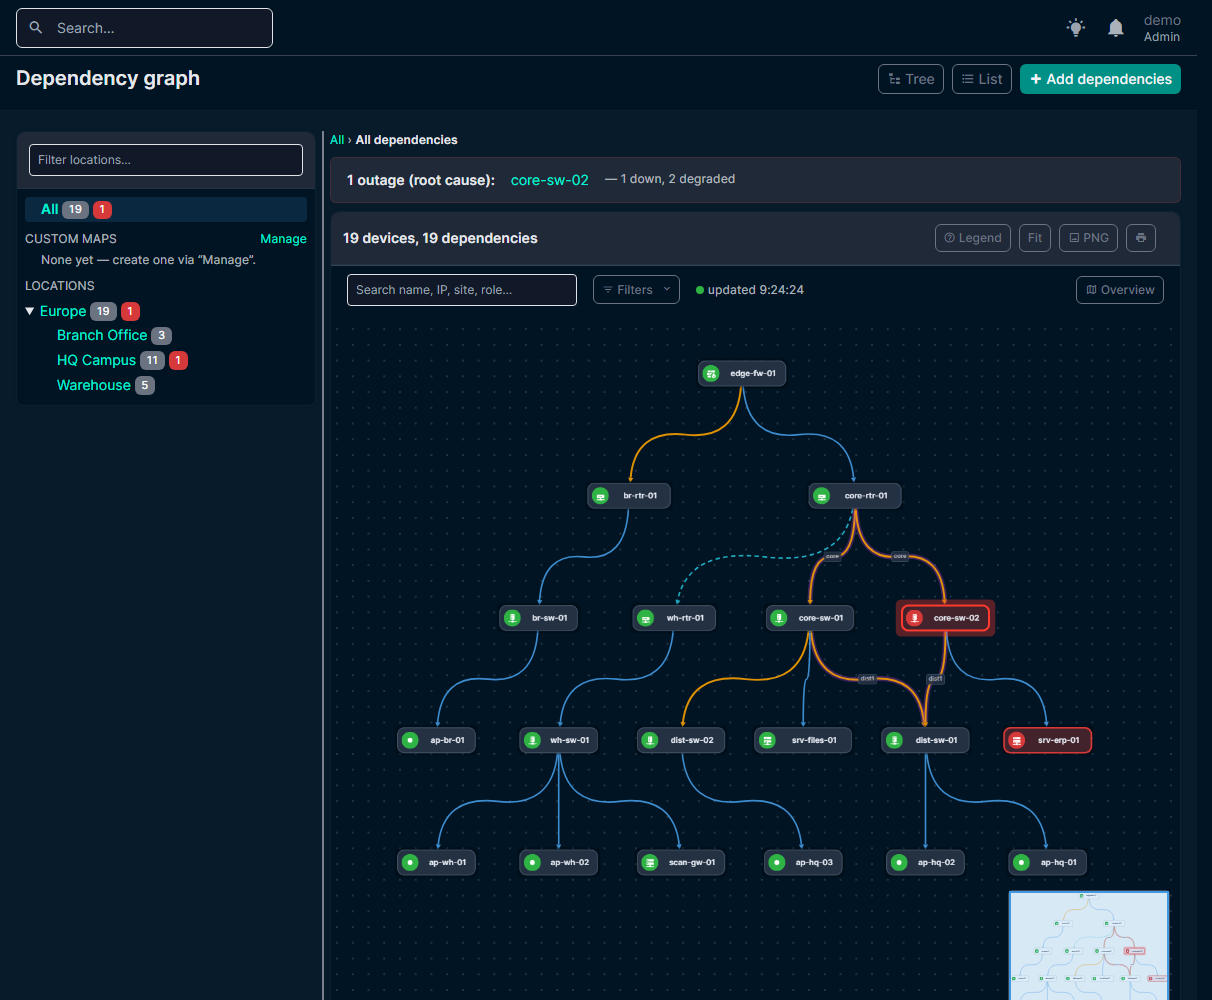
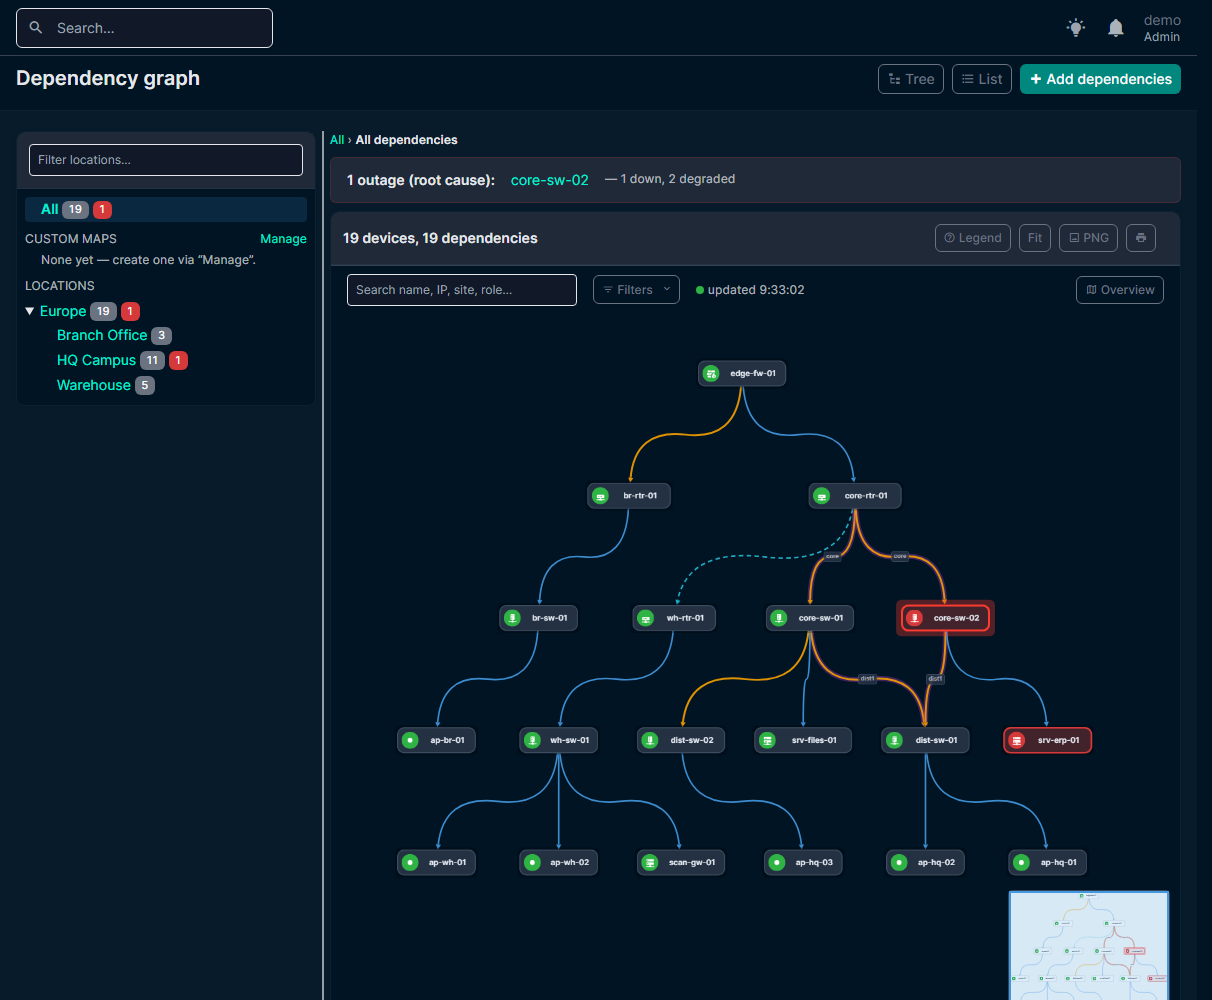
Remove the dot grid from the graph canvas (1.1.1)

Changed region(s): [[0.6411, 0.279, 0.6716, 0.31]]

diff --git a/netbox_dependencies/templates/netbox_dependencies/graph.html b/netbox_dependencies/templates/netbox_dependencies/graph.html
@@ -15,11 +15,7 @@
 
 {% block content %}
   <style>
-    #dep-graph { height: 70vh; min-height: 440px; width: 100%;
-                 --dep-dot: rgba(100, 116, 139, .28);
-                 background-image: radial-gradient(circle, var(--dep-dot) 1.1px, transparent 1.3px);
-                 background-size: 24px 24px; }
-    [data-bs-theme="dark"] #dep-graph { --dep-dot: rgba(148, 163, 184, .22); }
+    #dep-graph { height: 70vh; min-height: 440px; width: 100%; }
     .dep-leg-row { display: flex; align-items: center; gap: .7rem; margin-bottom: .45rem; font-size: .9rem; }
     .dep-leg-row .sw { flex: 0 0 74px; display: flex; align-items: center; justify-content: center; }
     .dep-leg-row .dot { display: inline-block; width: 16px; height: 16px; border-radius: 4px; }
@@ -533,15 +529,8 @@
     });
     window.depCy = cy;
 
-    // ---- modern touches: a dot grid that moves with the map, hover highlight, pulsing root causes, live theme switch
-    var gridEl = document.getElementById('dep-graph');
-    function updateGrid() {
-      var z = cy.zoom(), step = Math.max(10, 24 * z), pan = cy.pan();
-      gridEl.style.backgroundSize = step + 'px ' + step + 'px';
-      gridEl.style.backgroundPosition = (pan.x % step) + 'px ' + (pan.y % step) + 'px';
-    }
-    cy.on('pan zoom resize', updateGrid);
-    updateGrid();
+    // ---- modern touches: hover highlight, pulsing root causes, live theme switch
+    var gridEl = document.getElementById('dep-graph');   // used for the pointer cursor on hover
     cy.on('mouseover', 'node', function (evt) {
       if (!evt.target.data('cloud')) { evt.target.connectedEdges().addClass('hl'); }
       gridEl.style.cursor = 'pointer';

diff --git a/netbox_dependencies/__init__.py b/netbox_dependencies/__init__.py
@@ -1,6 +1,6 @@
 from netbox.plugins import PluginConfig
 
-__version__ = '1.1.0'
+__version__ = '1.1.1'
 
 
 class DependenciesConfig(PluginConfig):

diff --git a/CHANGELOG.md b/CHANGELOG.md
@@ -1,5 +1,8 @@
 # Changelog
 
+## 1.1.1 — 2026-10-14
+- The graph canvas is plain again (the dot grid from 1.1.0 is removed).
+
 ## 1.1.0 — 2026-10-14
 - New graph design: device cards with a round status badge and role icon, smooth S-curved links, a dot-grid canvas,
   soft shadows, pulsing root causes, link highlight on hover, and light / dark theme that follows NetBox (also live).

diff --git a/README.md b/README.md
@@ -42,7 +42,7 @@ The plugin has no dependencies besides NetBox itself.
 
 ```bash
 # inside the NetBox virtualenv
-pip install git+https://github.com/adrian-13/netbox-dependencies.git@v1.1.0
+pip install git+https://github.com/adrian-13/netbox-dependencies.git@v1.1.1
 ```
 
 `configuration.py` (or `configuration/plugins.py` in netbox-docker):
